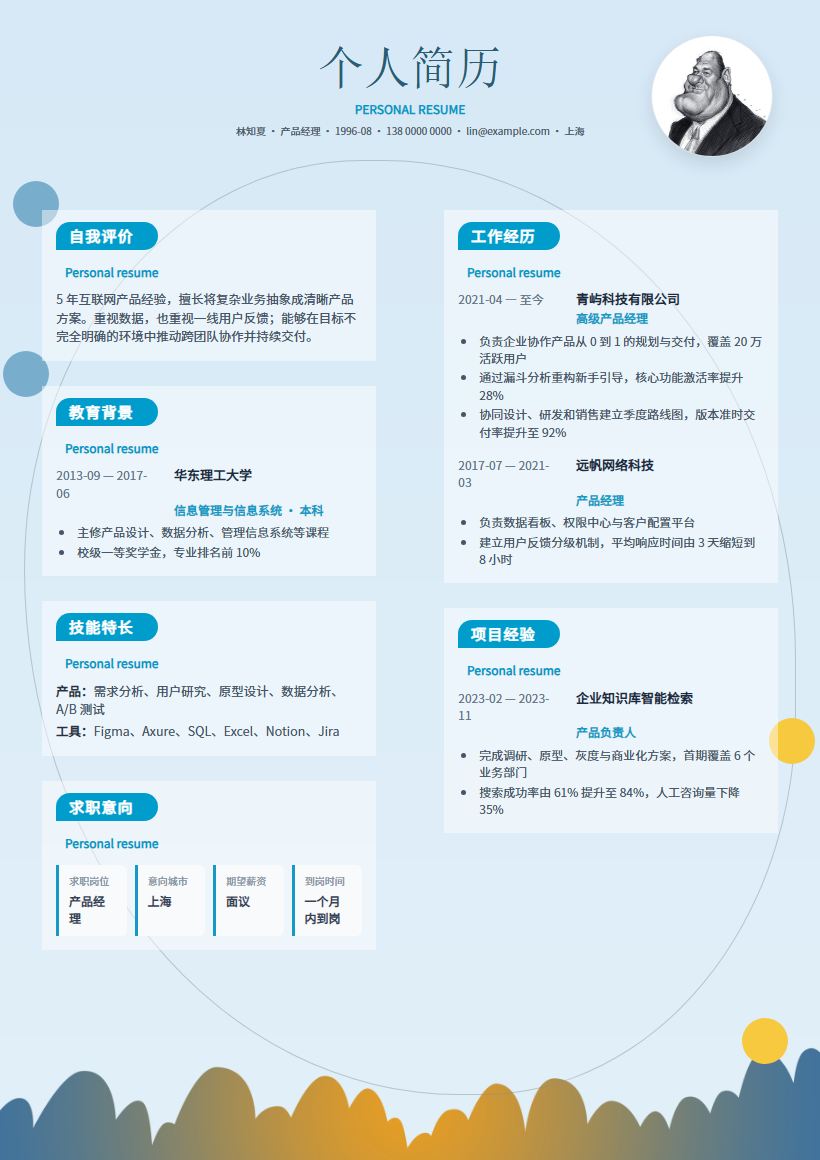
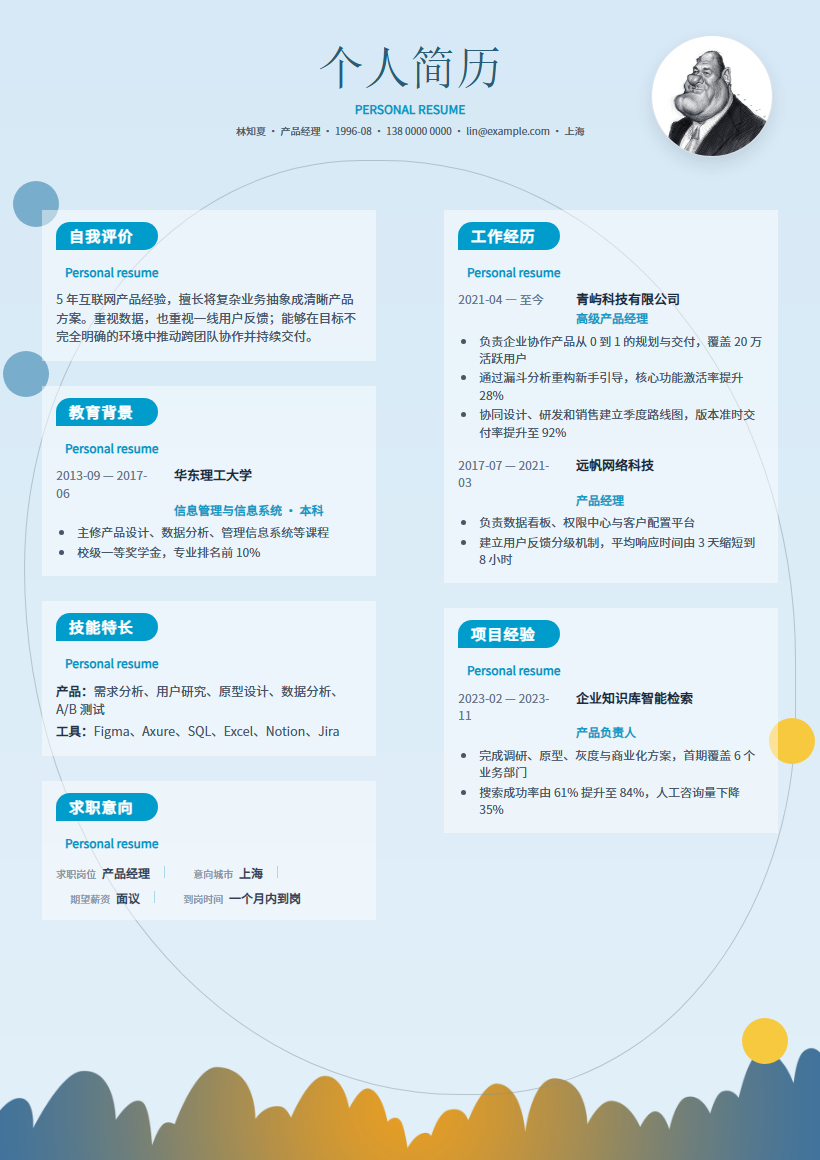
feat: add portable resume backups

Changed region(s): [[0.061, 0.7448, 0.4573, 0.8069]]

diff --git a/public/styles.css b/public/styles.css
@@ -2057,33 +2057,50 @@ select:focus-visible,
 }
 
 .objective-grid {
-  display: grid;
-  grid-template-columns: repeat(4, minmax(0, 1fr));
-  gap: 8px;
-  padding: 4px 0 2px;
+  display: flex;
+  flex-wrap: wrap;
+  align-items: baseline;
+  gap: 7px 0;
+  padding: 3px 0 2px;
 }
 
 .objective-grid > div {
-  padding: 9px 10px;
-  background: #f8fafc;
-  border-left: 3px solid var(--theme);
-  border-radius: 0 6px 6px 0;
+  display: inline-flex;
+  align-items: baseline;
+  min-width: 0;
+  padding: 0 14px;
+  border: 0;
+  background: transparent;
+}
+
+.objective-grid > div:first-child {
+  padding-left: 0;
+}
+
+.objective-grid > div:not(:last-child)::after {
+  width: 1px;
+  height: 12px;
+  margin-left: 14px;
+  background: color-mix(in srgb, var(--theme) 32%, transparent);
+  content: "";
 }
 
 .objective-grid span,
 .objective-grid strong {
-  display: block;
+  display: inline;
 }
 
 .objective-grid span {
+  margin-right: 6px;
   color: #8a96a8;
   font-size: 10px;
+  white-space: nowrap;
 }
 
 .objective-grid strong {
-  margin-top: 3px;
   color: #334155;
   font-size: 12px;
+  white-space: nowrap;
 }
 
 .timeline-list {
@@ -2588,12 +2605,16 @@ select:focus-visible,
 }
 
 .template-sidebar .objective-grid {
-  grid-template-columns: 1fr;
+  align-items: stretch;
+  flex-direction: column;
 }
 
 .template-sidebar .objective-grid div {
-  border-color: rgba(255,255,255,.28);
-  background: transparent;
+  padding: 0;
+}
+
+.template-sidebar .objective-grid div::after {
+  display: none;
 }
 
 .template-sidebar .objective-grid span {
@@ -3024,8 +3045,9 @@ select:focus-visible,
 .collection-sidebar .section-heading span { width: 100%; min-width: 0; padding: 6px 10px; color: inherit; background: rgba(255,255,255,.16); border-radius: 0; text-align: center; }
 .collection-sidebar .section-heading i,.collection-sidebar .section-heading span::after { display: none; }
 .collection-sidebar .resume-section,.collection-sidebar .rich-preview,.collection-sidebar .rich-preview strong { color: inherit; }
-.collection-sidebar .objective-grid { grid-template-columns: 1fr; }
-.collection-sidebar .objective-grid div { border-color: rgba(255,255,255,.25); background: transparent; }
+.collection-sidebar .objective-grid { align-items: stretch; flex-direction: column; }
+.collection-sidebar .objective-grid div { padding: 0; background: transparent; }
+.collection-sidebar .objective-grid div::after { display: none; }
 .collection-sidebar .objective-grid span { color: rgba(255,255,255,.7); }
 .collection-sidebar-main { min-width: 0; padding: 34px 32px 54px; gap: 22px; }
 .collection-sidebar-main .section-heading { border-bottom: 1px solid #aab2b7; }

diff --git a/public/index.html b/public/index.html
@@ -864,11 +864,11 @@
             </button>
           </nav>
           <div class="topbar-sub__actions">
-            <label class="secondary-button file-button">
-              导入 JSON
+            <label class="secondary-button file-button" title="导入由轻简历导出的 JSON 备份文件">
+              导入备份
               <input id="importFile" type="file" accept="application/json,.json" />
             </label>
-            <button class="secondary-button" type="button" data-action="download-json">备份</button>
+            <button class="secondary-button" type="button" data-action="download-json" title="下载 JSON 格式的完整简历备份">下载备份</button>
           </div>
           <section id="spacingPopover" class="popover" hidden>
             <div class="popover__heading">版面间距</div>
